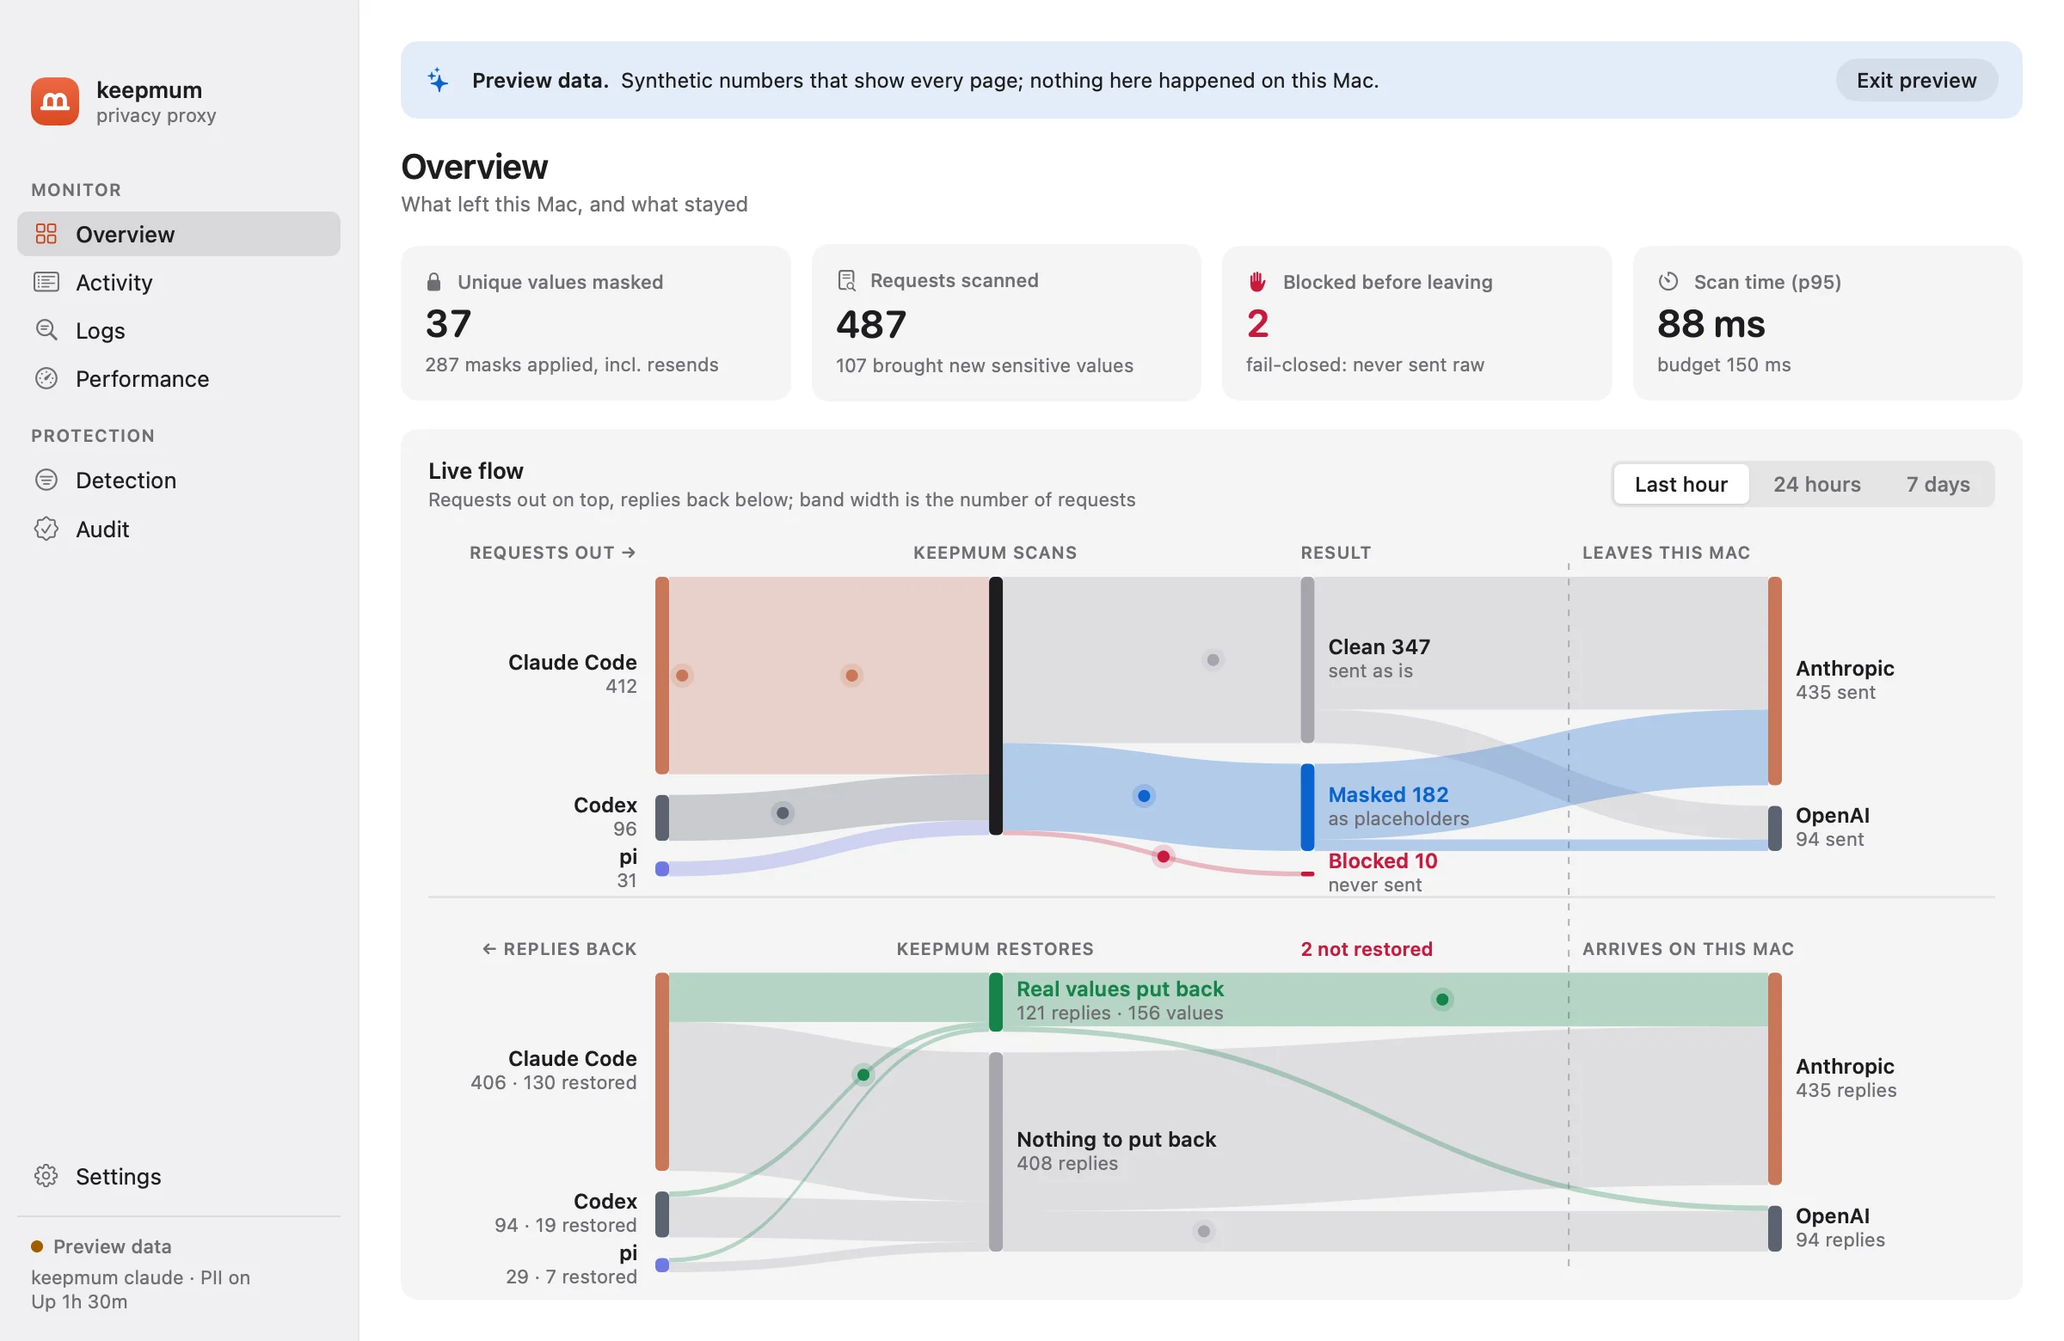
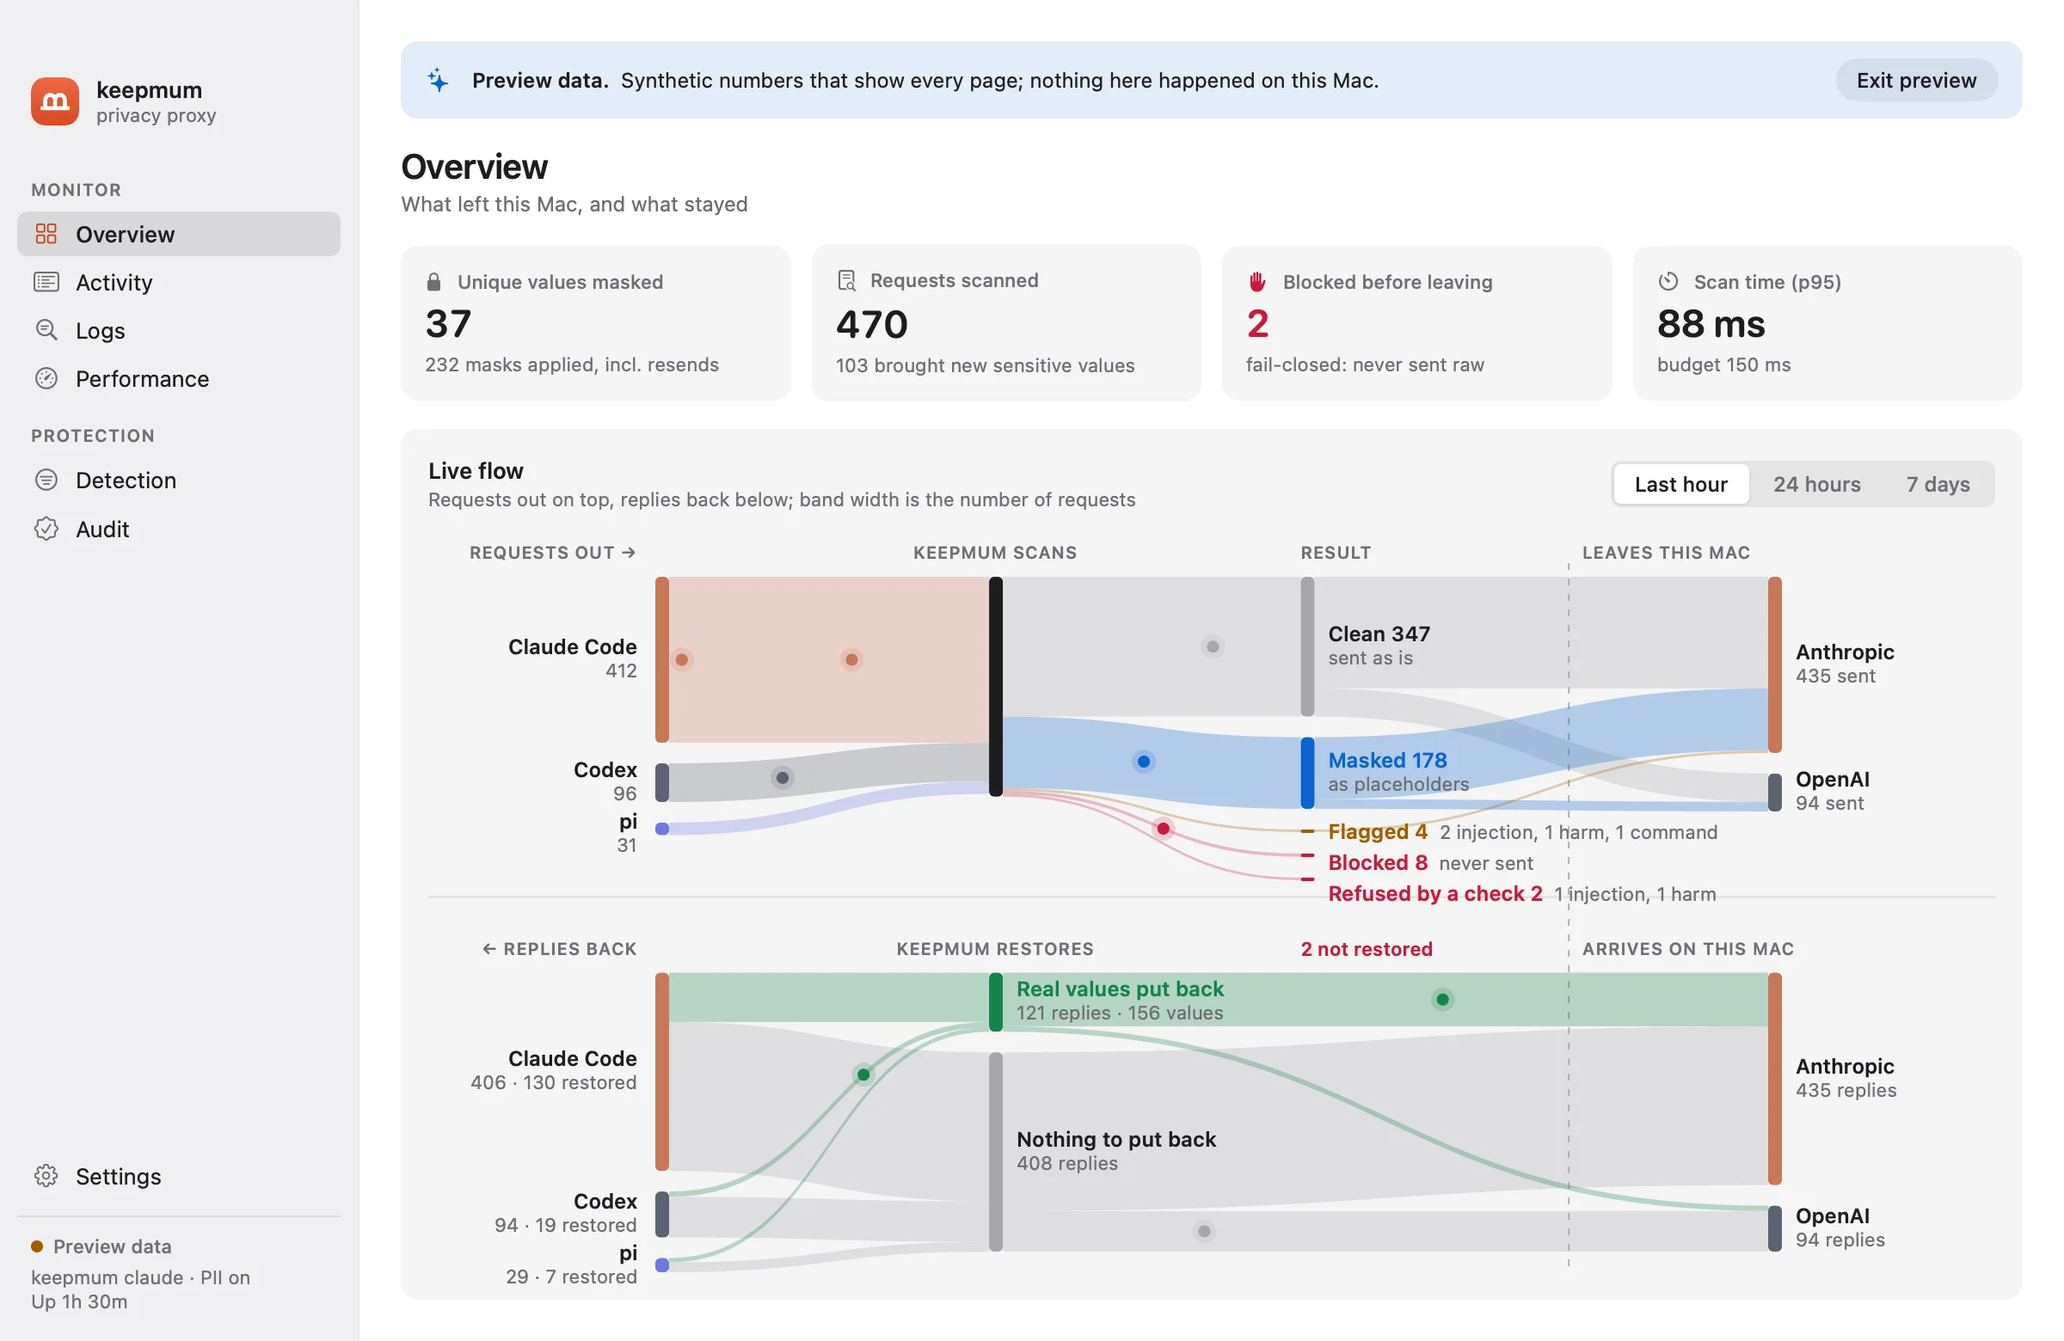
docs: the website and spec catch up with the checks, Gemini CLI and tool rules
The site gets a section on the three optional checks, current screenshots
of the dashboard, menu and Checks settings, Gemini CLI, and the rules for
network tools and shell commands. The spec gains the newer commands,
config sections, modules and a milestone for the checks.

Changed region(s): [[0.2812, 0.4615, 0.9062, 0.6769], [0.4062, 0.2154, 0.5312, 0.2769], [0.25, 0.4615, 0.3125, 0.5231]]

diff --git a/site/index.html b/site/index.html
@@ -6,7 +6,7 @@
 <meta http-equiv="Content-Security-Policy" content="default-src 'none'; style-src 'self'; font-src 'self'; img-src 'self'; base-uri 'none'; form-action 'none'">
 <meta name="referrer" content="strict-origin-when-cross-origin">
 <title>keepmum: keep secrets on your Mac while you use coding agents</title>
-<meta name="description" content="A local proxy for Claude Code, Codex, pi and opencode. It masks API keys, tokens, passwords and personal data before a request leaves your Mac, and restores them in the answer.">
+<meta name="description" content="A local proxy for Claude Code, Codex, Gemini CLI, pi and opencode. It masks API keys, tokens, passwords and personal data before a request leaves your Mac, and restores them in the answer.">
 <meta name="theme-color" content="#E4572E">
 <link rel="canonical" href="https://keepmum.app/">
 <link rel="icon" href="favicon.svg" type="image/svg+xml">
@@ -34,6 +34,7 @@
     </a>
     <nav aria-label="Main">
       <a class="hide-narrow" href="#how">How it works</a>
+      <a class="hide-narrow" href="#checks">Checks</a>
       <a class="hide-narrow" href="#app">Mac app</a>
       <a class="hide-narrow" href="#limits">Limitations</a>
       <a class="hide-phone" href="https://github.com/blueandhack/keepmum">GitHub</a>
@@ -43,7 +44,7 @@
 
   <div class="wrap hero-body">
     <div class="hero-copy">
-      <p class="pill">Pre-release · not yet independently audited</p>
+      <p class="pill">Alpha · not yet independently audited</p>
       <h1>Keep<br>mum.</h1>
       <p class="lede">Your coding agent reads your secrets. keepmum makes sure that’s where they stop: masked before a request leaves your Mac, restored when the answer comes back.</p>
       <div class="actions">
@@ -53,7 +54,7 @@
         </a>
         <a class="btn outline" href="https://github.com/blueandhack/keepmum">Read the source</a>
       </div>
-      <p class="fine">For Claude Code, Codex, pi and opencode · Free and open source</p>
+      <p class="fine">For Claude Code, Codex, Gemini CLI, pi and opencode · Free and open source</p>
     </div>
     <div class="hero-mark">
       <svg viewBox="0 0 100 100" role="img" aria-label="The keepmum mark: a lowercase m closed off by a line, like a shut mouth"><path d="M21.6 69.8 L21.6 46.3 C21.6 37 27.8 30.9 35.8 30.9 C43.8 30.9 50 37 50 46.3 L50 69.8 M50 69.8 L50 46.3 C50 37 56.2 30.9 64.2 30.9 C72.2 30.9 78.4 37 78.4 46.3 L78.4 69.8 M12.9 69.8 L87.1 69.8" fill="none" stroke="#FFFFFF" stroke-width="8" stroke-linecap="round" stroke-linejoin="round"/></svg>
@@ -78,7 +79,7 @@
       </div>
       <div class="panel back">
         <span class="label">BACK TO YOUR AGENT</span>
-        <p>Placeholders in the answer become real values again, so your agent can still log in, edit your .env and run your tests. Web and MCP tools keep the placeholders, so an injected prompt can’t send a real value out.</p>
+        <p>Placeholders in the answer become real values again, so your agent can still log in, edit your .env and run your tests. Tools that reach the network get less: web search and fetch keep the placeholders, an MCP server gets back only what it returned itself, and none of them ever gets a secret.</p>
       </div>
     </div>
   </section>
@@ -109,14 +110,36 @@
     </div>
   </section>
 
+  <section id="checks" class="wrap section checks" aria-labelledby="checks-title">
+    <div class="checks-head">
+      <h2 id="checks-title">Three checks, if you want them.</h2>
+      <p class="intro">All off until you turn them on, and all on your Mac. Warn sends the request and logs a hit. Block refuses it. Local, for the first two, sends a flagged request to a model on your Mac instead of the provider, so your agent still gets an answer.</p>
+    </div>
+    <div class="cols">
+      <div class="feature">
+        <h3>Prompt injection</h3>
+        <p>Checks what tools bring back (web pages, files, shell output, MCP replies) for instructions planted for your agent. On the benchmark it caught every injected document and flagged 3% of ordinary ones.</p>
+      </div>
+      <div class="feature">
+        <h3>Harmful requests</h3>
+        <p>Checks what you type, not what tools return. The default model catches 66% of harmful prompts and flags 5% of safe ones, in 8 ms; larger ones catch up to 82%.</p>
+      </div>
+      <div class="feature">
+        <h3>Risky commands</h3>
+        <p>Checks the shell commands a reply asks your agent to run: a download piped into a shell, deleting your home folder, erasing a disk, credentials sent over the network. Seven rules, no download.</p>
+      </div>
+    </div>
+    <figure class="shot"><img src="img/checks.webp" width="2860" height="910" alt="keepmum’s Checks settings: each check off, warn, block or local, and the local servers that answer flagged requests" loading="lazy"></figure>
+  </section>
+
   <section id="app" class="app" aria-labelledby="app-title">
     <div class="wrap section">
       <div class="app-head">
         <h2 id="app-title">A menu bar app that shows its work.</h2>
-        <p class="intro">Set up in three steps: download the model, start the background service, switch on protection for each agent. Then watch requests go out and replies come back, see what was masked, choose what gets masked, and check the audit log.</p>
+        <p class="intro">Set up in three steps: download the model, start the background service, switch on protection for each agent. Then watch requests go out and replies come back, see what was masked and what a check flagged, choose what gets masked, and check the audit log.</p>
       </div>
       <div class="shots">
-        <figure class="shot"><img src="img/dashboard.webp" width="2400" height="1560" alt="The keepmum dashboard: requests going out and replies coming back, per coding agent"></figure>
+        <figure class="shot"><img src="img/dashboard.webp" width="2400" height="1560" alt="The keepmum dashboard: requests going out and replies coming back, per coding agent, with what was masked, blocked and flagged by a check"></figure>
         <img class="menu-shot" src="img/menu.webp" width="640" height="704" alt="The keepmum menu in the menu bar" loading="lazy">
       </div>
       <div class="cols">
@@ -160,7 +183,7 @@
     <div class="main cols">
       <div class="limit">
         <h3>Shell commands get real values</h3>
-        <p>An agent can still run a command that sends a secret somewhere. Pair keepmum with a sandbox that limits the network.</p>
+        <p>A GitHub, Stripe or AWS token stays a placeholder in a command that would send it to another host. A password, or a command built to hide where it sends things, gets past that: pair keepmum with a sandbox that limits the network.</p>
       </div>
       <div class="limit">
         <h3>Your local history keeps them too</h3>
@@ -208,7 +231,7 @@ keepmum claude</code></pre>
       <a class="btn" href="https://github.com/blueandhack/keepmum/releases/download/v0.1.0a3/Keepmum-0.1.0a3.dmg">Download for Mac</a>
     </div>
     <footer>
-      <p>keepmum is an independent open-source project, not affiliated with or endorsed by Anthropic or OpenAI. Apache 2.0.</p>
+      <p>keepmum is an independent open-source project, not affiliated with or endorsed by Anthropic, OpenAI or Google. Apache 2.0.</p>
       <nav aria-label="Footer">
         <a href="https://github.com/blueandhack/keepmum">GitHub</a>
         <a href="https://github.com/blueandhack/keepmum/security">Report a vulnerability</a>

diff --git a/site/style.css b/site/style.css
@@ -122,12 +122,18 @@ a { color: var(--ink); }
 .step h3 { font-size: 26px; font-weight: 800; letter-spacing: -0.02em; }
 .step p { font-size: 17px; line-height: 1.55; color: var(--body); }
 
+/* Checks */
+.checks { display: flex; flex-direction: column; gap: 48px; padding-top: 32px; }
+.checks-head { display: flex; flex-wrap: wrap; gap: 24px 64px; align-items: flex-end; }
+.checks-head > * { flex: 1 1 420px; }
+@media (max-width: 600px) { .checks .shot { display: none; } }
+
 /* The Mac app */
 .app { background: var(--sand); }
 .app .wrap { display: flex; flex-direction: column; gap: 56px; }
 .app-head { display: flex; flex-wrap: wrap; gap: 24px 64px; align-items: flex-end; }
 .app-head > * { flex: 1 1 420px; }
-.shots { position: relative; padding-bottom: 40px; }
+.shots { position: relative; padding-bottom: 120px; }
 .shot { border-radius: 20px; overflow: hidden; background: #fff; border: 1px solid rgba(26, 15, 11, 0.08); box-shadow: 0 40px 80px -40px rgba(26, 15, 11, 0.35); }
 .menu-shot { position: absolute; right: 24px; bottom: 0; width: 24%; min-width: 150px; border-radius: 14px; box-shadow: 0 24px 48px -16px rgba(26, 15, 11, 0.4); }
 .feature { display: flex; flex-direction: column; gap: 8px; }

diff --git a/docs/SPEC.md b/docs/SPEC.md
@@ -183,12 +183,15 @@ The user experience is one command, `keepmum claude` or `keepmum codex`, or the 
 | --- | --- |
 | `keepmum claude [args]` | Starts the proxy on a free local port, runs `claude` with `ANTHROPIC_BASE_URL` pointing at it, stops the proxy when Claude exits. Passes all args through. |
 | `keepmum codex [args]` | The same for Codex, with `-c` overrides for that run (a `keepmum` provider, WebSockets off). |
+| `keepmum gemini [args]` | The same for Gemini CLI, through `GOOGLE_GEMINI_BASE_URL` and `CODE_ASSIST_ENDPOINT` for that run. |
 | `keepmum serve` | Runs the proxy standalone on `127.0.0.1:7788` (configurable). Binds to localhost only. |
 | `keepmum protect on\|off\|status [--client]` | Points Claude Code, Codex, pi and opencode at `keepmum serve` in their own config files, or undoes it. |
 | `keepmum observe on\|off` | Observe only: scan and count, but forward requests unchanged. |
 | `keepmum model on\|off` | The rules and the local model, or the rules alone. |
 | `keepmum pii on\|off` | Mask personal data too, or only secrets and your own rules (the default). |
 | `keepmum types` / `keepmum rules` | What gets masked: types passed through, your own mask rules, exceptions, built-in rules turned off. |
+| `keepmum tools [allow\|set\|trust]` | MCP servers and web tools seen, and which real values each may receive. |
+| `keepmum guard [setup\|injection\|harm\|commands\|local\|remove]` | The optional checks: prompt injection in tool results, harmful requests in what you type, risky shell commands in replies; off, warn, block, or local (a flagged request answered by a model on this Mac). |
 | `keepmum destinations [add\|remove]` | Hosts a shell command may send a rule's tokens to, besides its issuer's own. Adding needs `--yes`. |
 | `keepmum log previews\|context on\|off` | What the app's Logs page may show about masked values (memory only). |
 | `keepmum exclude` / `keepmum include` | Lets one project's Claude Code skip keepmum. |
@@ -226,11 +229,24 @@ WebFetch = "keep"
 WebSearch = "keep"
 "mcp__*" = "own"
 
+[destinations]                       # hosts a shell command may also send a rule's tokens to
+gitlab-token = ["gitlab.corp.example"]
+
+[gateways]                           # gateways behind keepmum, each at /gateway/<name> (`keepmum protect on` adds them)
+local-3425 = "http://127.0.0.1:3425"
+
 [log]
 level = "info"                       # never logs values, only type + counts
 
 [audit]
 keep_days = 90                       # audit log retention; shortening it is recorded as weakening
+
+[guard]                              # the optional checks, all "off" by default
+injection = "off"                    # tool results: "warn", "block" or "local"
+harm = "off"                         # what the user typed: "warn", "block" or "local"
+harm_model = "small"                 # or "0.6b", "4b"
+commands = "off"                     # shell commands in replies: "warn" or "block"
+local_servers = []                   # [{ url, model, checks?, api? }] on this Mac, tried in order
 ```
 
 `keepmum claude` writes logs to `~/.config/keepmum/keepmum.log` (mode 0600), because the terminal belongs to Claude Code, and records its port in `~/.config/keepmum/runtime.json` (0600) for the Mac app. It refuses to start if any Claude Code settings file sets `ANTHROPIC_BASE_URL` or a Bedrock/Vertex/Foundry switch, or if such a switch is in the environment, since that could route traffic around the proxy. An `ANTHROPIC_BASE_URL` already in the environment (another gateway) becomes keepmum's upstream.
@@ -257,6 +273,15 @@ keepmum/
     audit.py        # tamper-evident audit log: hash chain, settings diffs, verify
     protect.py      # Claude Code settings, project exclusions
     clients.py      # Codex, pi and opencode configs, `keepmum codex`
+    gemini.py       # Gemini API and Code Assist restore, whole and streamed
+    gateway.py      # gateways behind keepmum, routes per gateway
+    tools.py        # what each network tool may receive, servers seen, tool hashes
+    destinations.py # where a token with a known issuer may go in a shell command
+    guard.py        # the prompt-injection check
+    harm.py         # the harm check (and qwen3guard_prompt.py)
+    commands.py     # the risky-commands check on replies
+    local.py        # local mode: a flagged request answered on this Mac
+    llamacpp.py     # llama-server, the checks' runtime
     launch.py       # `keepmum claude`, the VS Code wrapper, background server
     detect/
       rules.py      # L1 regex + entropy + checksums, user rules
@@ -292,6 +317,7 @@ keepmum/
 - [x] **Other gateways (Nov 2, 2026).** `keepmum protect on` goes in front of a gateway an agent already uses, through a route per gateway; see *Other gateways* above. Verified with Claude Code, Codex, pi and opencode against a stand-in gateway: placeholders only at the gateway, its own key, and `off` restoring every config file byte for byte.
 - [x] **Web addresses in replies (Nov 2, 2026).** A placeholder inside an http(s) address in reply text stays a placeholder, so a rendered image or link cannot carry a value out; see Restore. Verified with Claude Code: the text got the real value, the image address the placeholder.
 - [x] **Shell destinations (Nov 3, 2026).** A token whose issuer is known stays a placeholder in a shell command that names another host (`destinations.py`, Open questions). Verified with Claude Code running two curl commands: attacker.test received the placeholder, api.github.com the token. Cases: `docs/test-cases/shell-destinations.md`.
+- [x] **Optional checks (Nov 4–5, 2026).** Off by default, each warn or block: prompt injection in tool results (`guard.py`, Prompt Injection Guard Small as a GGUF keepmum converted and hosts; `bench/results/GUARD.md`), harmful requests in what the user typed (`harm.py`, Content Safety Guard Small, or Qwen3Guard-Gen 0.6B or 4B; `bench/results/HARM.md`), both in llama-server on Metal and downloaded only by `keepmum guard setup`; and risky shell commands in the model's replies (`commands.py`, seven rules, no model). Local mode (injection and harm) answers a flagged request with a model on this Mac (`local.py`; Ollama, LM Studio, llama.cpp, or Chat Completions for others), tried in order, never sent to the provider. Hits are logged, counted and audited with the check, score and length, never the text; the Mac app shows them in the flow diagram, Activity and Logs. The README has the details.
 - [ ] **M6 Ship.** README, Homebrew tap, name check on GitHub, PyPI and Homebrew. *Oct 26, 2026: Keepmum.app is self-contained (bundled Python runtime, pf-serve, a LaunchAgent via SMAppService) and sets itself up: model download, background service, `keepmum protect`. Nov 3, 2026: signed with Developer ID, notarized, and released as a DMG on GitHub Releases, [0.1.0a1](https://github.com/blueandhack/keepmum/releases/tag/v0.1.0a1) (pre-release). Nov 5, 2026: [0.1.0a2](https://github.com/blueandhack/keepmum/releases/tag/v0.1.0a2), the first that updates itself (Sparkle, a signed feed, asked on first launch). Left: a Homebrew cask, PyPI, and Windows (pf-serve already builds there; the app would need its own UI).*
 
 ## Audit log
@@ -348,7 +374,7 @@ The one test that must never fail: a canary secret sent through keepmum never ap
 - Bind to `127.0.0.1` only. Reject requests with a non-local `Host` header.
 - Third-party loggers (httpx, httpcore, uvicorn) are capped at WARNING so they cannot print URLs or request details; uvicorn's access log is off.
 - **Stats feeds** (for the Mac app): `GET /_keepmum/stats` has request counts by outcome, masked and restored counts by type, the detection report, scan latency, and the last 200 events (time, path, status, client, provider, counts); `/_keepmum/history` pages the history file and `/_keepmum/flows` totals it for the flow diagrams. None holds a value or a placeholder. It requires `Authorization: Bearer <token>`, with the token in `~/.config/keepmum/stats-token` (mode 0600).
-- No telemetry, no update checks, no network calls except the forwarded request.
+- No telemetry, and no network calls except the forwarded request, the model downloads the user starts (`keepmum setup`, `keepmum guard setup`), and the Mac app's update checks, which it asks about first and makes only with the user's yes.
 - Synthetic secrets only in the repo. Add `keepmum scan` as a pre-commit hook on the keepmum repo itself.
 
 **Risks**
